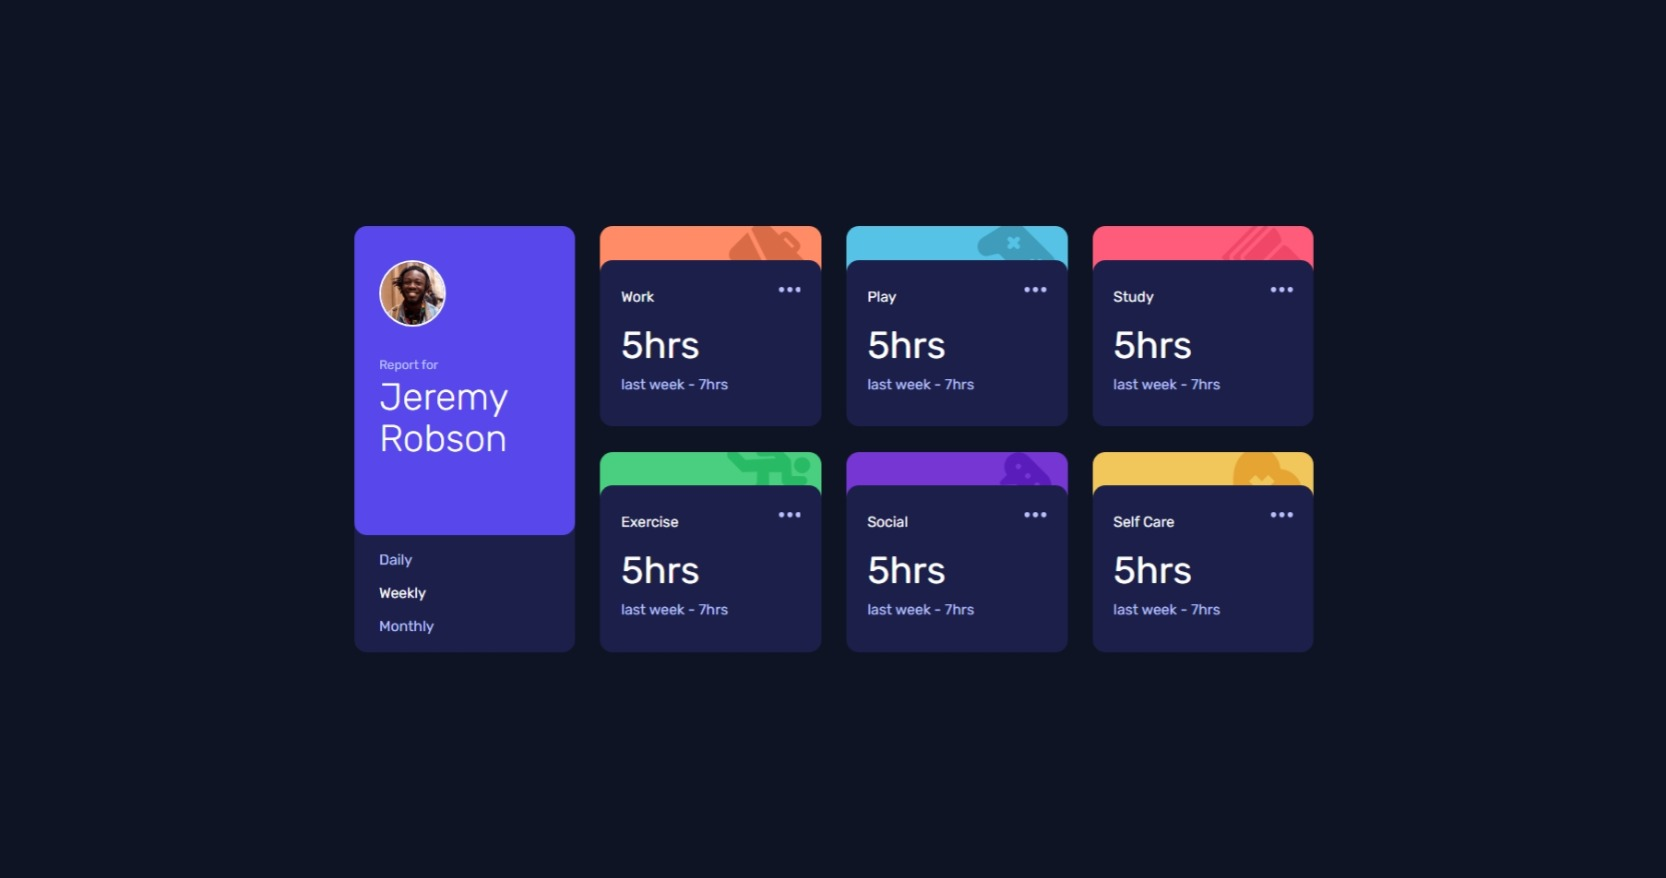
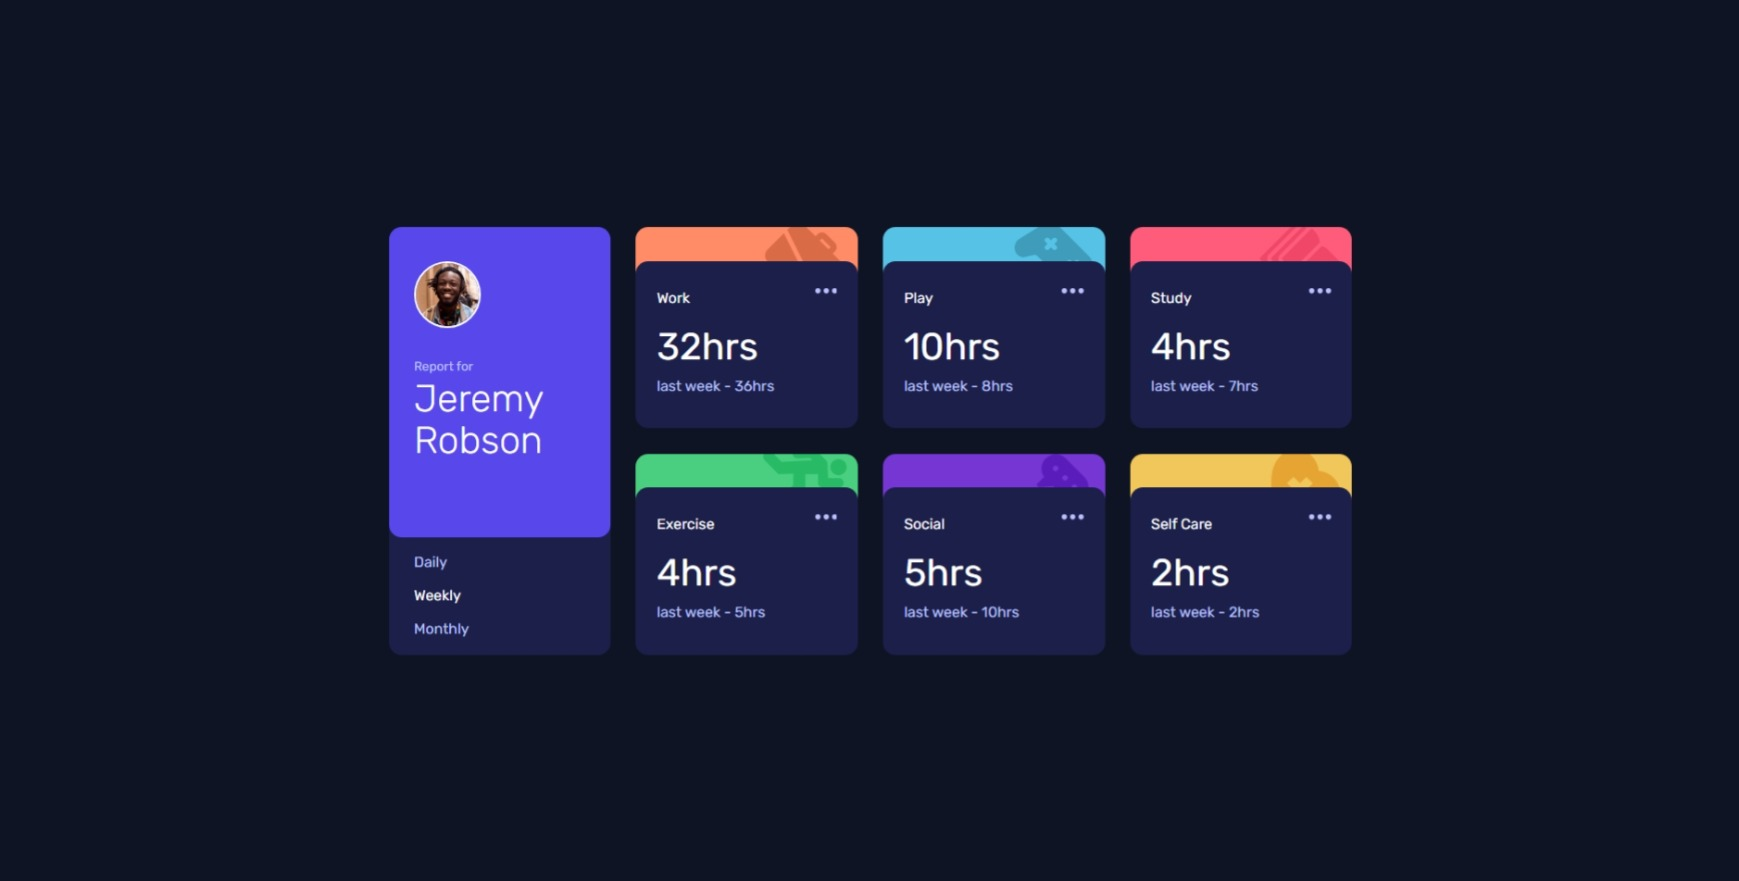
fetch data onload page from data.json

diff --git a/index.html b/index.html
@@ -88,9 +88,9 @@
                                                 </svg>
                                           </div>
                                     </div>
-                                    <h2 class="text-4xl mt-4 mb-2"><span id="work-time">5</span>hrs </h2>
+                                    <h2 class="text-4xl mt-4 mb-2"><span id="work-time">--</span>hrs </h2>
                                     <div class="text-sm text-pale-blue">last <span class="timing">week </span> - <span
-                                                class="previous-work">7</span>hrs
+                                                class="previous-work">--</span>hrs
                                     </div>
                               </div>
                         </div>
@@ -116,9 +116,9 @@
                                                 </svg>
                                           </div>
                                     </div>
-                                    <h2 class="text-4xl mt-4 mb-2"><span id="play-time">5</span>hrs </h2>
+                                    <h2 class="text-4xl mt-4 mb-2"><span id="play-time">--</span>hrs </h2>
                                     <div class="text-sm text-pale-blue">last <span class="timing">week </span> - <span
-                                                class="previous-play"> 7</span>hrs
+                                                class="previous-play"> --</span>hrs
                                     </div>
                               </div>
                         </div>
@@ -144,9 +144,9 @@
                                                 </svg>
                                           </div>
                                     </div>
-                                    <h2 class="text-4xl mt-4 mb-2"><span id="study-time">5</span>hrs </h2>
+                                    <h2 class="text-4xl mt-4 mb-2"><span id="study-time">--</span>hrs </h2>
                                     <div class="text-sm text-pale-blue">last <span class="timing">week </span> - <span
-                                                class="previous-study"> 7</span>hrs
+                                                class="previous-study"> --</span>hrs
                                     </div>
                               </div>
                         </div>
@@ -172,9 +172,9 @@
                                                 </svg>
                                           </div>
                                     </div>
-                                    <h2 class="text-4xl mt-4 mb-2"><span id="exercise-time">5</span>hrs </h2>
+                                    <h2 class="text-4xl mt-4 mb-2"><span id="exercise-time">--</span>hrs </h2>
                                     <div class="text-sm text-pale-blue">last <span class="timing">week </span> - <span
-                                                class="previous-exercise"> 7</span>hrs
+                                                class="previous-exercise"> --</span>hrs
                                     </div>
                               </div>
                         </div>
@@ -202,9 +202,9 @@
                                                 </svg>
                                           </div>
                                     </div>
-                                    <h2 class="text-4xl mt-4 mb-2"><span id="social-time">5</span>hrs </h2>
+                                    <h2 class="text-4xl mt-4 mb-2"><span id="social-time">--</span>hrs </h2>
                                     <div class="text-sm text-pale-blue">last <span class="timing">week </span> - <span
-                                                class="previous-social"> 7</span>hrs
+                                                class="previous-social"> --</span>hrs
                                     </div>
                               </div>
                         </div>
@@ -230,9 +230,9 @@
                                                 </svg>
                                           </div>
                                     </div>
-                                    <h2 class="text-4xl mt-4 mb-2"><span id="self-care-time">5</span>hrs </h2>
+                                    <h2 class="text-4xl mt-4 mb-2"><span id="self-care-time">--</span>hrs </h2>
                                     <div class="text-sm text-pale-blue">last <span class="timing">week </span> - <span
-                                                class="previous-self-care"> 7</span>hrs
+                                                class="previous-self-care"> --</span>hrs
                                     </div>
                               </div>
                         </div>

diff --git a/script.js b/script.js
@@ -35,3 +35,4 @@ weekly_btn.addEventListener("click", () => {
 monthly_btn.addEventListener("click", () => {
       setData("month");
 });
+setData("week");
